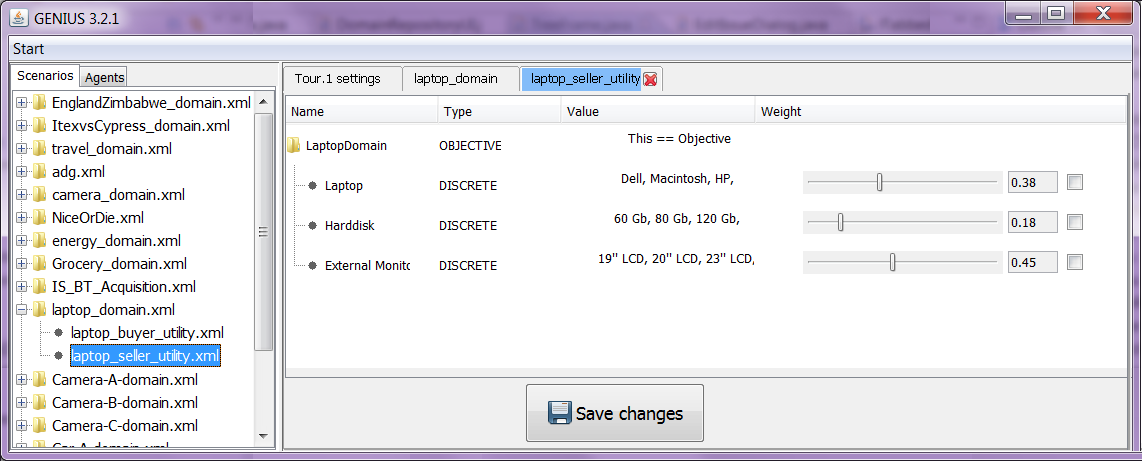
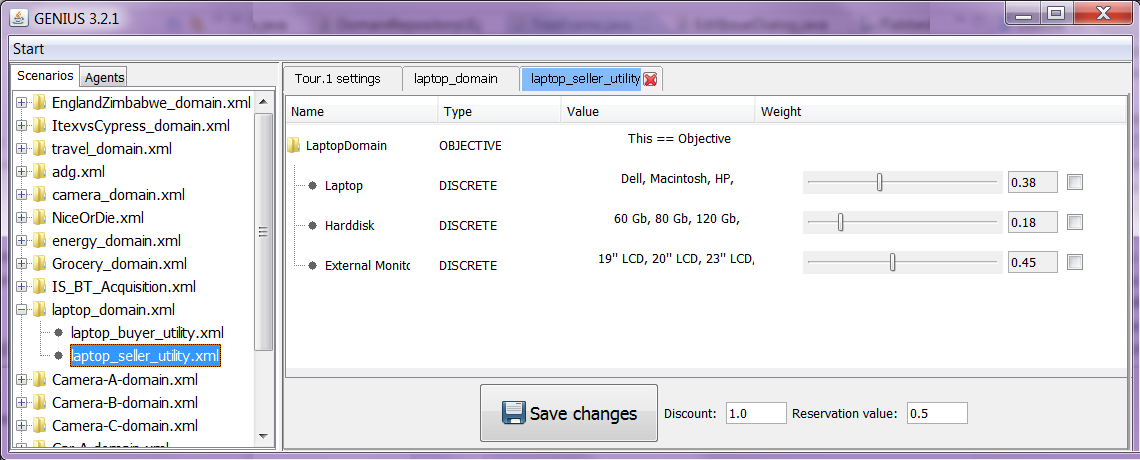
Improved the manual.

diff --git a/doc/userguide.tex b/doc/userguide.tex
@@ -121,7 +121,7 @@
 This section provides a crash course on some essential theory needed to understand the negotiation system. Furthermore, it provides an overview of the features of a negotiation implemented in \Genius.
 
 \subsection{Negotiation Protocol}
-The negotiation protocol determines the overall order of actions during a negotiation. Agents are obliged to stick to this protocol, and deviations from the protocol are caught and penalized. This section discusses the details of the bilateral alternating offers protocol used in \Genius.
+The negotiation protocol determines the overall order of actions during a negotiation. Agents are obliged to stick to this protocol, as deviations from the protocol are caught and penalized. This section discusses the details of the bilateral alternating offers protocol used in \Genius.
 
 In the bilateral alternating offers protocol two parties -- agent $A$ and agent $B$ -- take turns. Agent $A$ starts the negotiation. Each turn an agent presents one of the three possible actions:
 
@@ -137,27 +137,25 @@ In the bilateral alternating offers protocol two parties -- agent $A$ and agent 
 \end{tabular}
 \end{center}
 
-When it is an agent's turn, it is informed about the opponent's action. Based on the opponent's action the agent comes up with a action, which it presents to the opponent. This process goes on until the negotiation finishes in one of the following ways:
+When it is an agent's turn, it is informed about the opponent's action. Based on the opponent's action the agent comes up with a action, which it presents to the opponent. Sequentially, the opponent presents a counter action. This process goes on until the negotiation finishes in one of the following ways:
 \begin{itemize}
-	\item An agent accepts the opponent's offer using the action \textsc{Accept}. The utility of the opponent's last bid is determined in the utility spaces of agent $A$ and $B$. The opponent is informed of this action via the ReceiveMessage method.
-	\item The action returned is an \textsc{EndNegotiation}, which may be presented by an agent -- in which case it means that the agent walks away -- or when the deadline has passed. The score of both agents is set to their reservation value.
-	\item Finally, if an agent does not follow this protocol -- for instance by sending another action that is not one of the above or by crashing -- the agents will also get their reservation values.
+	\item An agent accepts the opponent's offer using the action \textsc{Accept}. The utility of the opponent's last bid is determined for both agents according to their preference profiles. The opponent is informed of acceptance via the ReceiveMessage method.
+	\item The action returned is an \textsc{EndNegotiation}, which may be presented by an agent -- in which case it means that the agent quits the negotiation -- or when the deadline has passed. In this case the score of both agents is set to their reservation value.
+	\item Finally, if an agent does not follow the protocol -- for instance by sending another action that is not one of the above or by crashing -- the agent's utility is set to reservation value, whereas the opponent is awarded the utility of the last offer.
 \end{itemize}
  
 \subsection{Reservation Value}
 A reservation value is a real-valued constant that sets a threshold below which a rational agent should not accept any offers. Intuitively, a reservation value is the utility associated with the Best Alternative to a Negotiated Agreement (BATNA).
 
-A reservation value is the utility that an agent will obtain if no agreement is realized in a negotiation session. This can happen either if a an agent leaves the negotiation, or by not reaching an agreement before the deadline. In other words: either the negotiating parties agree on an outcome $\omega$, and both agents receive the associated utility of $\omega$, or: no agreement is reached, and both agents receive their reservation value instead.
-
-Reservation values typically are different for each of the negotiating agents that negotiate in a session. In case no reservation value is set in a profile, it is assumed 0.
+A reservation value is the utility that an agent will obtain if no agreement is realized in a negotiation session. This can happen either if a an agent leaves the negotiation, or by not reaching an agreement before the deadline. In other words: either the negotiating parties agree on an outcome $\omega$, and both agents receive the associated utility of $\omega$, or no agreement is reached, in which case both agents receive their reservation value instead. Reservation values typically differ for each negotiation agent. In case no reservation value is set in a profile, it is assumed 0.
 
 
 \subsection{Time Pressure}
-A negotiation lasts a predefined time in seconds, or alternatively rounds. The time line is \emph{normalized}, i.e.: time $t \in [0, 1]$, where $t = 0$ represents the start of the negotiation and $t = 1$ represents the deadline. Notice that manipulation of the remaining time can be a factor influencing the negotiation results.
+A negotiation lasts a predefined time in seconds, or alternatively rounds. In \Genius~the time line is \emph{normalized}, i.e.: time $t \in [0, 1]$, where $t = 0$ represents the start of the negotiation and $t = 1$ represents the deadline. Notice that manipulation of the remaining time can be a factor influencing the outcome.
 
 There is an important difference between a time-based and rounds-based protocol. In a time-based protocol the computational cost of an agent should be taken into account as it directly influences the amount of bids which can be made. In contrast, for a rounds-based negotiation the time can be thought of as frozen inside a round; therefore computational cost does not play a role.
 
-Apart from a deadline, a scenario may also have \emph{discount factors}. Discount factors decrease the utility of the bids under negotiation as time passes. Time is shared between the agents, but the discount is private too, and can different for each agent. The implementation of discount factors is as follows: let $d$ in $[0, 1]$ be the discount factor that is specified in the preference profile of an agent; let $t$ in $[0, 1]$ be the current normalized time, as defined by the timeline; we compute the discounted utility $U_D^t$ of an outcome $\omega$ from the undiscounted utility function $U$ as follows:
+Apart from a deadline, a scenario may also feature \emph{discount factors}. Discount factors decrease the utility of the bids under negotiation as time passes. While time is shared between both agents, the discount generally differs per agent. The implementation of discount factors is as follows: let $d$ in $[0, 1]$ be the discount factor that is specified in the preference profile of an agent; let $t$ in $[0, 1]$ be the current normalized time, as defined by the timeline; we compute the discounted utility $U_D^t$ of an outcome $\omega$ from the undiscounted utility function $U$ as follows:
 \begin{eqnarray}
 U_D^t(\omega) = U(\omega) \cdot d^t
 \end{eqnarray}
@@ -174,11 +172,11 @@ Agent participating in a negotiation interact in a scenario. A scenario specifie
 	\caption{Overview of the data structures and relations.}\label{Fig:overviewStructures}
 \end{figure}
 
-The {\bf Domain} describes which issues are the subject of the negotiation and which values an issue can attain. To give a concrete example of a domain: in the laptop domain the issues are ``laptop'', ``harddisk'' and ``monitor''. The domain also describes the possible values that all the issues can take. In the laptop domain, the issues can only attain discrete values from a finite set, e.g. the ``harddisk'' issue can only have the values ``60 Gb'', ``80 Gb'' and ``120 Gb''. These issues are all instance of \textbf{IssueDiscrete}. There are other types of Issue, but discussion of them falls out of the scope of this short discussion.
+The \textit{Domain} describes which issues are the subject of the negotiation and which values an issue can attain. To give a concrete example of a domain: in the laptop domain the issues are ``laptop'', ``harddisk'' and ``monitor''. In the laptop domain the issues can only attain discrete values, e.g. the ``harddisk'' issue can only have the values ``60 Gb'', ``80 Gb'' and ``120 Gb''. These issues are all instance of \textit{IssueDiscrete}.
 
-Combining these concepts, an agent can formulate a \textbf{Bid}: a mapping from each issue to a value. A valid bid in the laptop domain is for example a Dell laptop with 80 Gb and a 17' inch monitor.
+Combining these concepts, an agent can formulate a \textit{Bid}: a mapping from each issue to a value. A valid bid in the laptop domain is for example a Dell laptop with 80 Gb and a 17' inch monitor.
 
-The {\bf UtilitySpace} specifies the preferences of the bids for an agent. Using a utility space the utility of a bid can be calculated. The utility is calculated using evaluators. Each issue has an evaluator corresponding to the type of the issue. The evaluator maps the evaluation of a value of an issue -- which is specified in the preference profile -- to a utility for that issue. The evaluator also specifies the importance of the issue relative to the other issues in the form of a weight. The weights of all issues sum up to 1.0. To illustrate, the ``harddisk'' issue is of the type \textbf{IssueDiscrete}, and therefore its evaluator is of the type \textbf{EvaluatorDiscrete}.
+The \textit{UtilitySpace} specifies the preferences of the bids for an agent. Using a utility space the utility of a bid can be calculated using the evaluator of each issue. The evaluator of an issue maps the evaluation of a value-- which is specified in the preference profile -- to a utility for that issue. The evaluator also specifies the importance of the issue relative to the other issues in the form of a weight. The weights of all issues sum up to 1.0. To illustrate, the ``harddisk'' issue is of the type \textit{IssueDiscrete}, and therefore its evaluator is of the type \textit{EvaluatorDiscrete}.
 
 In general, given the set of all bids, there are a small subset of bids which are more preferred as outcomes by both agents. Identifying these special bids may lead to a better agreement for both parties. We discuss the optimality of a bid in the next section.
 
@@ -190,20 +188,19 @@ Before discussing the optimality of a bid, we first need to formalize the concep
 	\label{eqn:Utility}
 \end{equation}
 
-For a single agent, the optimal bid is of maximum utility for the agent. Often this bid has a low utility for the opponent, and therefore the chance of agreement is low. A more general notion of optimality of a negotiation involves the utility of both agents. Figure~\ref{Fig:utility plot} shows the utilities of all bids for both parties.
- 
+For a single agent, the optimal bid is of maximum utility for the agent. Often this bid has a low utility for the opponent, and therefore the chance of agreement is low. A more general notion of optimality of a negotiation involves the utility of both agents.
 \begin{figure}[htb]
 	\centering
-	\includegraphics[width=0.4\textwidth]{media/image5.pdf}
+	\includegraphics[width=0.37\textwidth]{media/image5.pdf}
 \caption{A point indicates the utility for both agents of a bid. The red line is the Pareto optimal frontier.}\label{Fig:utility plot}
 \end{figure}
 
-There are multiple ways to define a more global ``optimum''. One approach to optimality is that a bid is not optimal for both parties if there is another bid that has the higher utility for one party, and at least equal utility for the other party. Thus, only bids in Figure 2 for which there is no other bid at the top right is optimal. This type of optimality is called Pareto optimality and forms an important concept in automated negotiation. The collection of Pareto optimal bids is called the Pareto optimal frontier.
+There are multiple ways to define a more global ``optimum''. One approach to optimality is that a bid is not optimal for both parties if there is another bid that has the higher utility for one party, and at least equal utility for the other party. Thus, only bids in Figure~\ref{Fig:utility plot} for which there is no other bid at the top right is optimal. This type of optimality is called Pareto optimality and forms an important concept in automated negotiation. The collection of Pareto optimal bids is called the Pareto optimal frontier.
 
-The challenge in an actual negotiation, is that the opponent in the default negotiation protocol hides its preference profile. This entails that an agent does not know how much the opponent prefers a bid. This problem can be partly resolved by building a model of the opponent's preferences by analyzing the negotiation trace. Each turn the agent can now offer the best bid for the opponent given a set of similar preferred bids for itself. By default, there are already a few opponent models implemented in \Genius, such as the \textbf{HardHeadedFrequencyModel} used by the HardHeaded agent which won the ANAC2011.
+A major challenge in a negotiation using the bilateral alternating offers protocol is that agents hide their preference profile. This entails that an agent does not know which bid the opponent prefers given a set of bids. This problem can be partly resolved by building a model of the opponent's preferences by analyzing the negotiation trace. Each turn the agent can now offer the best bid for the opponent given a set of similar preferred bids for itself. By default, there are already a few opponent models implemented in \Genius, such as the \textit{HardHeadedFrequencyModel} used by the \textit{HardHeaded} agent which won the ANAC2011.
  
-\section{Installing the Environment}
-The negotiation environment has been tested extensively on Microsoft Windows. It should run on any machine running Java 6 or higher. This includes Solaris and Linux distributions. There are known issues with Linux (in particular Ubuntu and SUSE) mainly involving the visualization of the GUI. There are still a number of known bugs in the negotiation environment, but these should be non critical. Please report any bugs found to \url{ai@mmi.tudelft.nl}.
+\section{Running the Environment}
+The negotiation environment has been tested extensively on Microsoft Windows. It should run on any machine running Java 6 or higher, including Solaris and Linux distributions. There are known issues with Linux (in particular Ubuntu and SUSE) mainly involving the visualization of the GUI. Please report any bugs found to \url{ai@mmi.tudelft.nl}.
 
 To install the environment, the file \texttt{negotiator.zip} can be downloaded. Unzip the file at a convenient location on your machine. This will result in a package containing the following files:
 
@@ -213,8 +210,8 @@ To install the environment, the file \texttt{negotiator.zip} can be downloaded. 
 	\item a \texttt{templates} folder, containing various scenarios.
 \end{itemize}
 
-When you run the negosimulator (by double-clicking the application), progress messages and error messages are printed mainly to the standard output. On Mac OSX you can view these messages by opening the console window (double-click on Systemdisk/Applications/Utilities/Console.app). On Windows this is not directly possible. Console output can be read only if you start the application from the console window by hand, as follows. Go to the directory with the negosimulator and enter
-\texttt{java -jar negosimulator.jar}
+When you run the negosimulator (by double-clicking the application or using open with and then selecting Java), progress messages and error messages are printed mainly to the standard output. On Mac OSX you can view these messages by opening the console window (double-click on Systemdisk/Applications/Utilities/Console.app). On Windows this is not directly possible. Console output can be read only if you start the application from the console window by hand, as follows. Go to the directory with the negosimulator and enter
+\texttt{java -jar negosimulator.jar}.
 This will start the simulator, and all messages will appear in the console window. You may see some errors and warnings that are non-critical.
 
 \section{Scenario Creation}
@@ -235,7 +232,7 @@ Start \Genius~by following the instructions in the previous section. After start
 \caption{The negosimulator right after start-up.}\label{Fig:negosimulator start}
 \end{figure}
 
-\subsection{Creatingyy a Domain}
+\subsection{Creating a Domain}
 By right clicking on the list of available scenarios in the Components Window a popup menu with the option to create a new domain is shown. After clicking this option it is requested where the domain should be saved. As a domain is accompanied by a set of preference profiles, it is recommended to save the file in a new directory in the templates folder. After saving the domain a window similar to Figure~\ref{Fig:newdomain} is shown. Initially, a domain contains zero issues. We can simply add an issue by pressing the ``Add issue'' button. This results in the opening of a dialog similar to Figure~\ref{fig:createIssueD}.
 
 \begin{figure}[htb]
@@ -246,11 +243,11 @@ By right clicking on the list of available scenarios in the Components Window a 
 
 The current version of \Genius~supports the creation of discrete and integer issues. Starting with a discrete issue, the values of the issue should be specified. In Figure~\ref{fig:createIssueD} we show the values of the issue ``Harddisk''. Note the empty evaluation values window, later on when creating a preference profile we will use this tab to specify the preference of each value.
 
-Instead of a discrete issue, we can also add an integer issue as shown in Figure~\ref{fig:createIssueI}. For an integer issue we first need to specify the lowest possible value and the highest value. Following, when creating a preference profile we need to specify the utility of the lowest value and the highest value. During the negotiation we can offer any value for the issue within the specified range.
+Instead of a discrete issue, we can also add an integer issue as shown in Figure~\ref{fig:createIssueI}. For an integer issue we first need to specify the lowest possible value and the highest value, for example the price you want to pay for a second hand car may be in the range $[700, 900]$. Next, when creating a preference profile we need to specify the utility of the lowest possible value (700) and the highest value (900). During the negotiation we can offer any value for the issue within the specified range.
 
-The next step is to press ``Ok'' to add the issue. Generally, a domain consists of multiple issues. We can simply add the other issues by repeating the process above. If you are satisfied with the domain, you can save it by pressing  ``Saving changes''.
+The next step is to press ``Ok'' to add the issue. Generally, a domain consists of multiple issues. We can simply add the other issues by repeating the process above. If you are satisfied with the domain, you can save it by pressing  ``Save changes''.
 
-Finally, note that issues can only be added and removed when there are not yet preference profiles. This is to avoid inconsistencies between the preference profiles and the domains.
+Finally, note that the issues of a domain can only be edited if the scenario does not (yet) specify preference profiles. This is to avoid inconsistencies between the preference profiles and the domains. 
 
 \begin{figure}[ht]
 \begin{minipage}[b]{0.45\linewidth}
@@ -267,7 +264,7 @@ Finally, note that issues can only be added and removed when there are not yet p
 \end{figure}
 
 \subsection{Creating a Preference Profile}
-Now that we created a domain, the next step is to add a set of preference profile. By right clicking on the domain a popup menu is opened which has an option to create a new preference profile. Selecting this option results in the opening of a new window which looks similar to Figure~\ref{fig:utilcreated}. It should be noted that when a domain has one or more preference profiles the issues can no longer be modified.
+Now that we created a domain, the next step is to add a set of preference profiles. By right clicking on the domain a popup menu is opened which has an option to create a new preference profile. Selecting this option results in the opening of a new window which looks similar to Figure~\ref{fig:utilcreated}.
 
 \begin{figure}[htb]
 	\centering
@@ -275,13 +272,15 @@ Now that we created a domain, the next step is to add a set of preference profil
 \caption{The negosimulator after creating a new utility space.}\label{fig:utilcreated}
 \end{figure}
 
-Now you are ready to start customizing your utility space to reflect your personal preferences. There are two steps: setting the importance of the issues and setting the preference of the values of the issues. To start with the first step, you can adjust the relative weights of the issues by using the sliders next to that issue. Note that when you slide a slider, the weights of the other sliders are automatically updated such that the all weights still sum up to one. If you do not want this behavior, you can lock the weight of an issue by selecting the checkbox behind it.
+Now you are ready to start customizing the preference profile. There are three steps: setting the importance of the issues, determining the preference of the values of the issues, and configuring the reservation value and discount. To start with the first step, you can adjust the relative weights of the issues by using the sliders next to that issue. Note that when you move a slider, the weights of the other sliders are automatically updated such that the all weights still sum up to one. If you do not want that the weight of another issue automatically changes, you can lock its weight by selecting the checkbox behind it. Now that we set the weights of the issues, it is a good idea to save the utility space.
 
-Now that we determined the weights of the issues, it is a good idea to save the utility space by selecting ``Save changes''. The next and final step is to set the evaluation of the issues. To specify the evaluation of an issue you can double click it to open a new window looking similar to Figure~\ref{fig:createIssueD} or Figure~\ref{fig:createIssueI} depending on the type of the issue.
+The next and final step is to set the evaluation of the issues. To specify the evaluation of an issue you can double click it to open a new window looking similar to Figure~\ref{fig:createIssueD} or Figure~\ref{fig:createIssueI} depending on the type of the issue.
 
 For a discrete issue we need to specify the evaluation value of each discrete value. A specific value can be assigned any positive non-zero integer as evaluation value. During the negotiation the utility of value is determined by dividing the value by the highest value for that particular issue. To illustrate, if we give 60 Gb evaluation 5, 80 Gb evaluation 8, and 120 Gb evaluation 10; then the utilities of these values are respectively 0.5, 0.8, and 1.0.
 
-Specifying the preference of a integer issue is even easier. In this case we simply need to specify the utility of the lowest possible value for that issue and the utility of the highest possible value. The utility of a value in this range is calculated during the negotiation by using linear interpolation of the utilities of both given utilities. If you are satisfied with the profile you can save it by pressing ``Save changes''. 
+Specifying the preference of a integer issue is even easier. In this case we simply need to specify the utility of the lowest possible value and the highest possible value. The utility of a value in this range is calculated during the negotiation by using linear interpolation of the utilities of both given utilities.
+
+The final step is to set the reservation value and discount of a preference profile. If you are satisfied with the profile you can save it by pressing ``Save changes''. 
 
 \section{Running Negotiations}
 This section discusses how to run a negotiation. There are three main modes to run a negotiation:
@@ -298,7 +297,7 @@ In contrast, non-automated agents are agents that are fully controlled by the us
 
 
 \subsection{Running a Negotiation Session}
-To run a negotiation session select ``Start'' and then ``Negotiation Session''. This opens a window similar to Figure~\ref{Fig:session}. The following parameters need to be specified to run a negotiationS:
+To run a negotiation session select ``Start'' and then ``Negotiation Session''. This opens a window similar to Figure~\ref{Fig:session}. The following parameters need to be specified to run a negotiation:
 \begin{itemize}
 	\item \textbf{Negotiation protocol}. The set of available protocols. Normally ``Alternating Offers'' is used.
 	\item \textbf{Side A/Side B}. The configuration of both agents which negotiate against each other.
@@ -381,11 +380,11 @@ After specifying the tournament and database parameters we can start the distrib
 It should be noted that currently there is no option in \Genius~to delete old tournament data. Therefore we recommend to install \textit{phpMyAdmin}. Using phpMyAdmin the old data of a tournament can be easily deleted by removing the tournament in the jobs table.
 
 \section{Creating a Negotiation Agent}
-This section discusses how to create a basic negotiation agent. A standard negotiation agent implements an agent as a single block of logic: a mix of a bidding strategy, acceptance strategy, and possibly an opponent model. In contrast, you might want to implement a BOA agent as discussed in Section~\ref{sec:boa}. The main advantage of a BOA agent is that an agent is defined as a separate implementation of a bidding strategy, acceptance, and opponent model. This entails that existing components can be reused.
+This section discusses how to create a basic negotiation agent. A standard negotiation agent implements an agent as a single block of logic: a mix of a bidding strategy, acceptance strategy, and possibly an opponent model. In contrast, we recommend to split these components which can be done by implementing a BOA agent as discussed in Section~\ref{sec:boa}. The main advantage of a BOA agent is that existing components can be reused, allowing for easier agent development.
 
-In this section we assume that you are familiar with programming in Java. In case you need more information about JAVA programming, please use the following link: \url{http://docs.oracle.com/javase/tutorial/index.html}. The Java API definitions can be found on \url{http://docs.oracle.com/javase/7/docs/api/index.html}.
+In this section we assume that you are familiar with programming in Java. In case you are not familiar with Java, please use the following link: \url{http://docs.oracle.com/javase/tutorial/index.html}. The Java API definitions can be found on \url{http://docs.oracle.com/javase/7/docs/api/index.html}.
 
-An easy way to create an agent is to create a new project in for example Eclipse or Netbeans. Next, add the negotiationsimulator.jar as a library to the project such that the classes in the project can use the classes of \Genius. Finally, to create an agent create a new class and extend the negotiator.Agent class. Table 1 shows the most important fields and methods of this class. For more information, please refer to the javadoc of \Genius. To implement your agent, you have to override the three methods: ReceiveMessage, init, and chooseAction. Note that \Genius has no problems with loading agents which consist of multiple classes.
+The recommended way to create an agent is to create a new project in for example Eclipse or Netbeans. Next, add the \textit{negotiationsimulator.jar} as an external library to the project such that classes in the project can use the classes of \Genius. Finally, to create an agent create a new class and extend the \textit{negotiator.Agent} class. Table~\ref{tab:agentclass} shows the most important fields and methods of this class. For more information, please refer to the javadoc of \Genius. To implement your agent, you have to override the three methods: \textit{ReceiveMessage}, \textit{init}, and \textit{chooseAction}. An agent may consist of multiple classes.
 
 \begin{table}
 \begin{tabular}{m{0.9\textwidth}}
@@ -393,10 +392,10 @@ An easy way to create an agent is to create a new project in for example Eclipse
 \texttt{UtilitySpace utilitySpace}\\
 The preference profile of the scenario.\\
 \hline
-\texttt{public Timeline timeline}\\
+\texttt{Timeline timeline}\\
 Use timeline for every time-related by using \texttt{getTime()}.\\
 \hline
-\texttt{public double getUtility(Bid bid)}\\
+\texttt{double getUtility(Bid bid)}\\
 A convenience method to get the utility of a bid taking the discount factor into account.\\
 \hline
 \texttt{void init()}\\
@@ -413,10 +412,11 @@ Returns the name of the agent. Please override this to give a proper name to you
 \hline
 \end{tabular}
 \caption{The most important methods and fields of the Agent class.}
+\label{tab:agentclass}
 \end{table}
 
 \subsection{Receiving the Opponent's Action}
-The \texttt{ReceiveMessage(Action opponentAction)} informs you that the opponent just did \texttt{opponentAction}. The \texttt{opponentAction} may be null if you are the first to place a bid, or an \texttt{Offer} containing the bid of the opponent. It may also be an \texttt{Accept} or \texttt{EndNegotiation} action.
+The \texttt{ReceiveMessage(Action opponentAction)} informs you that the opponent just did \texttt{opponentAction}. The \texttt{opponentAction} may be  \texttt{null} if you are the first to place a bid, or an \texttt{Offer}, \texttt{Accept} or \texttt{EndNegotiation} action.
 The \texttt{chooseAction()} asks you to return an \texttt{Action} to make the next step in the negotiation.
 
 In the SimpleAgent code, the following code is available for \texttt{ReceiveMessage}. The SimpleAgent stores the opponent's action to use it when choosing an action.
@@ -469,7 +469,7 @@ The method \textit{isAcceptable} implements the probabilistic acceptance functio
 \begin{equation}
 	P_\text{accept} = \dfrac{u - 2ut + 2\left(t - 1 + \sqrt{(t - 1)^2 + u(2t - 1)}\right)}{2t - 1}
 \end{equation}
-where $u$ is the utility of the bid made by the opponent (as measured in our utility space), and $t$ is the current time as a fraction of the total available time. Figure~\ref{Fig:Paccept} shows how this function behaves depending on the utility and remaining time. Note that this function only decides if a bid is acceptable or not. More advanced acceptance strategies also use the EndNegotiation action.
+where $u$ is the utility of the bid made by the opponent (as measured in our utility space), and $t$ is the current time as a fraction of the total available time. Figure~\ref{Fig:Paccept} shows how this function behaves depending on the utility and remaining time. Note that this function only decides if a bid is acceptable or not. More advanced acceptance strategies also use the \texttt{EndNegotiation} action.
 \begin{figure}[htb]
 	\centering
 	\includegraphics[width=0.3\textwidth]{media/image21.pdf}
@@ -481,51 +481,27 @@ where $u$ is the utility of the bid made by the opponent (as measured in our uti
 Automatic agents have to negotiate on their own, and are not allowed to communicate with a human user. Therefore, do not override the \texttt{isUIAgent()} function in automatic negotiation agents.
 
 \subsection{Other Useful Classes}
-This section provides an overview of classes which might be useful when implementing an agent. For the documentation of the data structures that are presented, please refer to the javadoc that can be found in your download of \Genius. 
+This section provides an overview of classes which might be useful when implementing an agent. For the documentation of the data structures that are presented, please refer to the Javadoc that can be found in your download of \Genius. 
 
-\begin{center}
-\begin{tabular}{|l|p{10.5cm}|}
-\hline
-\textsc{BidDetails} & Container to store a bid and its utility.\\
-\hline
-\textsc{BidDetailsTime} & Container to store a bid, its utility, and the time of offering.\\
-\hline
-\textsc{BidHistory} & Structure which can be used to keep track of the bids presented by the agent and its opponent.\\
-\hline
-\textsc{BidIterator} & Structure which can be used to retrieve all bids in the outcome space. It may be more interesting to use \textit{SortedOutcomeSpace}.\\
-\hline
-\textsc{EvaluatorDiscrete} & Evaluator which returns the utility of a value of a discrete issue. Note that this is the utility unweighted by the issue weight.\\
-\hline
-\textsc{EvaluatorInteger} & Evaluator which returns the utility of a value of an integer issue. Note that this is the utility unweighted by the issue weight.\\
-\hline
-\textsc{Issue} & Represents and issue under negotiation.\\
-\hline
-\textsc{IssueDiscrete} & A discrete issue.\\
-\hline
-\textsc{IssueInteger} & An integer issue.\\
-\hline
-\textsc{Pair} & A simple pair of two objects.\\
-\hline
-\textsc{Range} & Can be used to describe a continuous range.\\
-\hline
-\textsc{SortedOutcomeSpace} & Structure which stores all possible bids and their utilities. This class implements efficient search algorithms which can be used toe efficiently search the space of possible bids for bids satisfying specific properties.\\
-\hline
-\textsc{UtilitySpace} & Representation of a preference profile. It is recommended to use this class when implementing a model of the opponent's preference profile.\\
-\hline
-\end{tabular}
-\end{center}
+\begin{itemize}
 
-\subsection{Compiling an Agent}
-To compile the agent, you have to put \texttt{YourAgent.java} code in the directory containing the \texttt{negotiator.jar} file, and use the command line: \texttt{javac -cp negosimulator.jar YourAgent.java}. In Eclipse you can more easily copy the class from the ``bin'' folder.
-
-The next step is to load the agent in \Genius. Towards this end, first we should move the agent to the directory of \Genius. Note that the directory in which the agent should be put depends on your project. If for example you have a project with a package ``agents'' in which the agent is located, then the agent should be moved in a folder ``agents'' in the root of your \Genius~installation. An agent may consist of multiple class files. The next step is to add the agent in \Genius. This can be done in two ways:
-
-\begin{itemize}	\item \textbf{Loading the agent using the GUI}. An agent can be easily added by going to the ``Agents'' tab in the ``Components Window'' (see Figure~\ref{fig:addAgent}). Next, pressing right click opens a popup with the option to add a new agent. The final step is to select the main class of your agent.
-
-	\item \textbf{Loading the agent using XML}. A compiled agent can also be loaded by directly adding the agent to the repository using the \textit{agentrepository.xml} file. The code below visualizes a repository with a single agent. An agent element consists of several subelements; the first element is the \textit{description} of the agent which is visualized in the GUI; the second element is the \textit{classPath} specifying were the compiled agent class is located; the third element specifies the \textit{agentName}; finally the optional element \textit{params} specifies the parameters and their values available to the agent. In this case, a parameter ``e'' with value 2 and a parameter ``time'' with value 0.95 is specified. Variables can be accessed during the negotiation by using the \textit{getStrategyParameters} method.
+\item \textbf{BidDetails} is a structure to store a bid and its utility.
+\item \textbf{BidDetailsTime} is a structure to store a bid, its utility, and the time of offering.
+\item \textbf{BidHistory} is a structure to keep track of the bids presented by the agent and the opponent.
+\item \textbf{BidIterator} is a class used to enumerate all possible bids. Also see \textit{SortedOutcomeSpace}.
+\item \textbf{Pair} is a simple pair of two objects.
+\item \textbf{Range} is a structure used to describe a continuous range.
+\item \textbf{SortedOutcomeSpace} is a structure which stores all possible bids and their utilities. This class implements efficient search algorithms which can be used toe efficiently search the space of possible bids for bids satisfying specific properties.
+\item \textbf{UtilitySpace} is a representation of a preference profile. It is recommended to use this class when implementing a model of the opponent's preference profile.
 \end{itemize}
 
-In general, if there is a problem loading your agent the message ``(LOADING FAILED)'' is added after the name of your agent. In this case check that your agent is in the right directory.
+\subsection{Compiling an Agent}
+Compiling an agent can be done in two ways. First, in Eclipse you can simply find the compiled agent in the ``bin'' folder in your workspace. Alternatively, it is possible to compile th agent by placing \texttt{YourAgent.java} in the directory containing the \texttt{negotiator.jar} file, and using the command line: \texttt{javac -cp negosimulator.jar YourAgent.java}.
+
+The next step is to load the agent in \Genius. Towards this end, first we should move the agent to the directory of \Genius. Note that the directory in which the agent should be put depends on your project. If for example you have a project with a package ``agents'' in which the agent is located, then the agent should be moved in a folder ``agents'' in the root of your \Genius~installation. An agent may consist of multiple class files. Now we can add the agent in one of the following two ways:
+
+\begin{itemize}	
+\item \textbf{Loading the agent using the GUI}. An agent can be easily added by going to the ``Agents'' tab in the ``Components Window'' (see Figure~\ref{fig:addAgent}). Next, pressing right click opens a popup with the option to add a new agent. The final step is to select the main class of your agent.
 
 \begin{figure}[h] 
 	\center
@@ -533,6 +509,9 @@ In general, if there is a problem loading your agent the message ``(LOADING FAIL
 	\caption{Adding an agent using the GUI.}
 	\label{fig:addAgent}
 \end{figure}
+
+\item \textbf{Loading the agent using XML}. A compiled agent can also be loaded by directly adding the agent to the repository using the \textit{agentrepository.xml} file. The code below visualizes a repository with a single agent. An agent element consists of several subelements; the first element is the \textit{description} of the agent which is visualized in the GUI; the second element is the \textit{classPath} specifying were the compiled agent class is located; the third element specifies the \textit{agentName}; finally the optional element \textit{params} specifies the parameters and their values available to the agent. In this case, a parameter ``e'' with value 2 and a parameter ``time'' with value 0.95 is specified. Variables can be accessed during the negotiation by using the \textit{getStrategyParameters} method.
+\end{itemize}
 
 \begin{lstlisting}
 <?xml version="1.0" encoding="UTF-8" standalone="yes"?>
@@ -549,7 +528,7 @@ In general, if there is a problem loading your agent the message ``(LOADING FAIL
 \end{lstlisting}
 
 \section{Creating a BOA Agent}\label{sec:boa}
-Instead of implementing your negotiating agent from scratch, you may opt to use the \textit{BOA framework} available in \Genius: a negotiation agent architecture which allows to reuse existing components. Many of the sophisticated agent strategies that currently exist are comprised of a fixed set of modules. Generally, a distinction is made between three different modules: one module that decides whether the opponent's bid is acceptable (\textit{acceptance strategy}); one that decides which set of bids could be proposed next (\textit{bidding strategy}); and finally, one that tries to guess the opponent's preferences (\textit{opponent model}). The overall negotiation strategy is a result of the complex interaction between these components.
+Instead of implementing your negotiating agent from scratch, we recommend you opt to use the \textit{BOA framework} available in \Genius. The BOA negotiation agent architecture allows to reuse existing components. Many of the sophisticated agent strategies that currently exist are comprised of a fixed set of modules. Generally, a distinction is made between four different modules: one module that decides whether the opponent's bid is acceptable (\textit{acceptance strategy}); one that decides which set of bids could be proposed next (\textit{bidding strategy}); one that tries to guess the opponent's preferences (\textit{opponent model}), and finally a component which specifies how the opponent model is used (\textit{opponent model strategy}). The overall negotiation strategy is a result of the complex interaction between these components.
 
 The advantages of separating the negotiation strategy into these three components (or equivalently, fitting an agent into the BOA framework) are threefold: first, it allows to \textit{study the performance of individual components}; second, it allows to \textit{systematically explore the space of possible negotiation strategies}; third, the identification of unique interacting components \textit{simplifies the creation of new negotiation strategies}.
 
